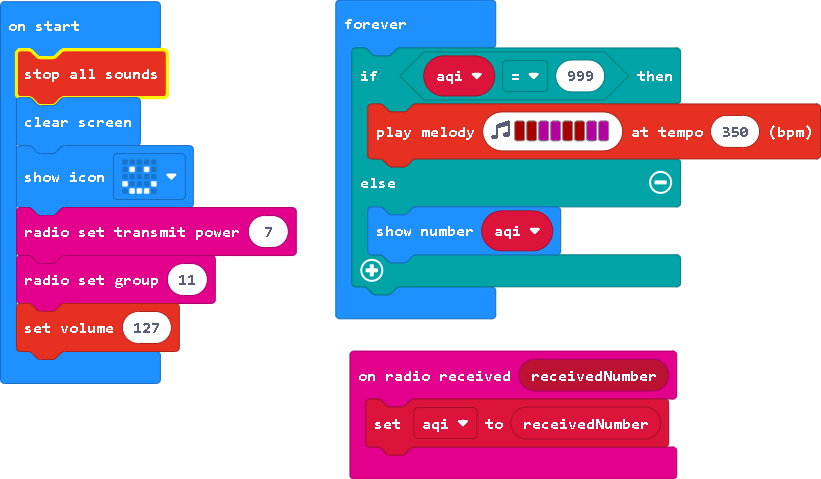
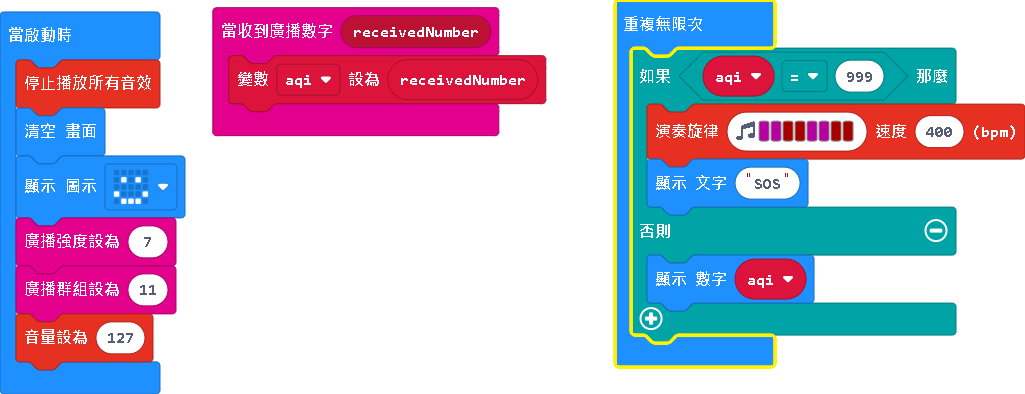
更新 pxt.json, main.blocks, main.ts

diff --git a/main.ts b/main.ts
@@ -10,7 +10,8 @@ radio.setGroup(11)
 music.setVolume(127)
 basic.forever(function () {
     if (aqi == 999) {
-        music.playMelody("C5 C5 C C C5 C5 C C ", 350)
+        music.playMelody("C C C5 C5 C C C5 C5 ", 400)
+        basic.showString("SOS")
     } else {
         basic.showNumber(aqi)
     }
